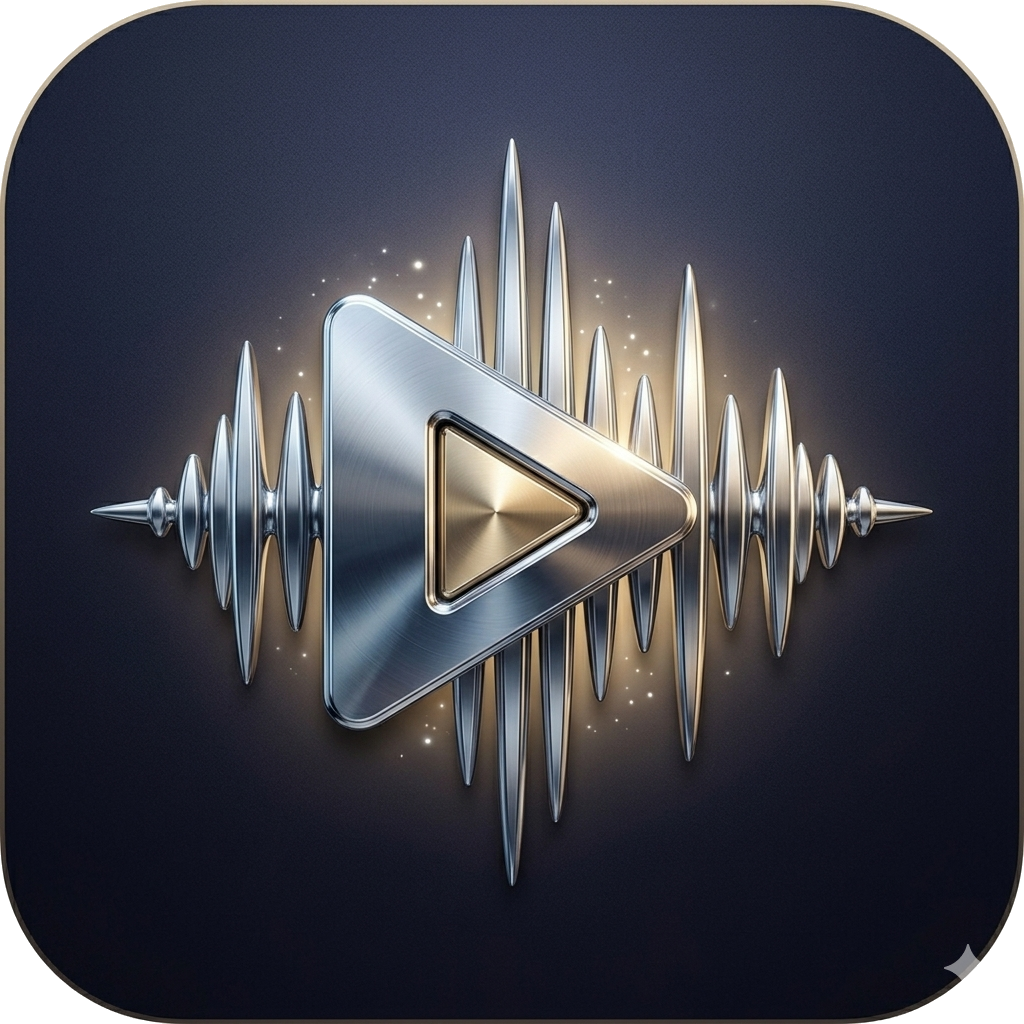
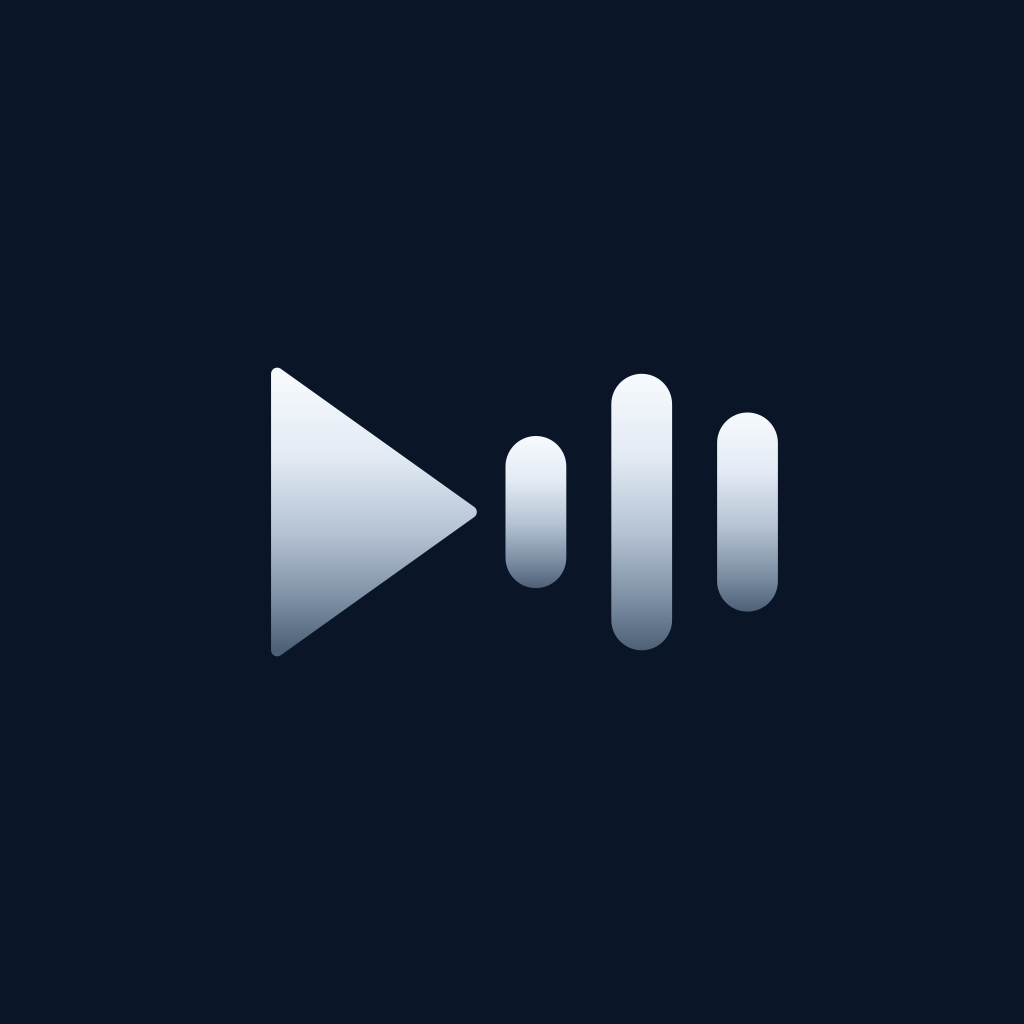
feat(ui): rebranding ikon + rapikan tema & geometri FloatingPlayer
Ikon & aset:
- 37 file ikon/aset diperbarui (adaptive icon, monochrome, splash, logo)
- app.json disesuaikan

Tema:
- theme.ts + 6 file tema (cyber, dark, light, nature, premium) ditata ulang

Geometri FloatingPlayer (file baru src/features/player/layout.ts):
- Sebelumnya ada 3 nilai yang harus sinkron tapi tidak saling tahu:
  bottom:70 di tabs/_layout.tsx, BOTTOM_COMPENSATION di library.tsx, dan
  padding 100/120/150 tersebar di 7 komponen library. FloatingPlayer bisa
  menutupi tab bar karena 70 hanya tebakan tinggi tab bar.
- Sekarang tinggi tab bar diambil dari useBottomTabBarHeight()
  react-navigation (sudah termasuk safe-area inset), bukan angka hardcoded.
- FLOATING_PLAYER_HEIGHT = 72 (accent 2.5 + progress 1.5 + content 68)

Layar: tabs/_layout.tsx dan library.tsx menyesuaikan sumber geometri baru.
docs/VISUAL_HEALTH.md diperbarui.

diff --git a/src/shared/constants/themes/dark.ts b/src/shared/constants/themes/dark.ts
@@ -40,8 +40,8 @@ export const DEEP_NAVY: Theme = {
       info: "#2B6EB0",
     },
     border: {
-      light: "#2A3440",
-      medium: "#1F2A3A",
+      light: "#36404F",
+      medium: "#606873",
       heavy: "#141E33",
     },
     // ✅ FIXED: Array format
@@ -99,8 +99,8 @@ export const MIDNIGHT_BLUE: Theme = {
       info: "#3A6EFF",
     },
     border: {
-      light: "#222E4A",
-      medium: "#1A2540",
+      light: "#373E4B",
+      medium: "#606671",
       heavy: "#121C30",
     },
     // ✅ FIXED: Array format
@@ -154,8 +154,8 @@ export const CHARCOAL_BLACK: Theme = {
       info: "#3B82F6",
     },
     border: {
-      light: "#1A1A1A",
-      medium: "#121212",
+      light: "#2E2E2E",
+      medium: "#666666",
       heavy: "#0A0A0A",
     },
     // ✅ FIXED: Array format
@@ -214,8 +214,8 @@ export const EMERALD_NOIR: Theme = {
       info: "#059669",
     },
     border: {
-      light: "#1B2620",
-      medium: "#141D17",
+      light: "#363A38",
+      medium: "#606361",
       heavy: "#0E1511",
     },
     gradient: {
@@ -274,8 +274,8 @@ export const COZY_METALLIC: Theme = {
       info: "#B87333",
     },
     border: {
-      light: "#3B2E26",
-      medium: "#2F251E",
+      light: "#433E3B",
+      medium: "#6A6664",
       heavy: "#241C16",
     },
     gradient: {
@@ -334,8 +334,8 @@ export const BLUE_JEANS: Theme = {
       info: "#4A7AB5",
     },
     border: {
-      light: "#273240",
-      medium: "#1E2835",
+      light: "#3A4048",
+      medium: "#63686E",
       heavy: "#161F2A",
     },
     gradient: {
@@ -394,8 +394,8 @@ export const VINYL_NOIR: Theme = {
       info: "#C4883C",
     },
     border: {
-      light: "#262626",
-      medium: "#1C1C1C",
+      light: "#343434",
+      medium: "#5E5E5E",
       heavy: "#121212",
     },
     gradient: {
@@ -454,8 +454,8 @@ export const AGED_WHISKEY: Theme = {
       info: "#A0522D",
     },
     border: {
-      light: "#2E2016",
-      medium: "#241810",
+      light: "#3D3834",
+      medium: "#65615E",
       heavy: "#1A120C",
     },
     gradient: {
@@ -514,8 +514,8 @@ export const GRAPHITE_SLATE: Theme = {
       info: "#5A8AA0",
     },
     border: {
-      light: "#2C3840",
-      medium: "#232C34",
+      light: "#3D4245",
+      medium: "#65696B",
       heavy: "#1A2228",
     },
     gradient: {

diff --git a/src/app/(drawer)/(tabs)/library.tsx b/src/app/(drawer)/(tabs)/library.tsx
@@ -65,6 +65,10 @@ import { GenreList } from "@/features/library/components/GenreList";
 import { FolderList } from "@/features/library/components/FolderList";
 import { FileTypeList } from "@/features/library/components/FileTypeList";
 import { PlaylistList } from "@/features/library/components/PlaylistList";
+import {
+  FLOATING_PLAYER_CLEARANCE,
+  FLOATING_PLAYER_HEIGHT,
+} from "@/features/player/layout";
 
 // Debounce helper
 const debounce = (func: Function, delay: number) => {
@@ -106,6 +110,14 @@ export default function LibraryScreen() {
 
   const searchInputRef = useRef<TextInput>(null);
   const BOTTOM_COMPENSATION = Platform.OS === "ios" ? insets.bottom + 20 : 30;
+
+  const { playSong, currentSong, isPlaying } = usePlayerStore();
+
+  // 🔥 FIX: list harus punya ruang untuk FloatingPlayer + tab bar.
+  // Sebelumnya padding bawah cuma 30 (Android), tapi FloatingPlayer sendiri
+  // sudah 72 + margin, jadi item terakhir tertutupi.
+  const FLOATING_BOTTOM =
+    BOTTOM_COMPENSATION + FLOATING_PLAYER_CLEARANCE * (currentSong ? 1 : 0);
 
   // Styles with colors
   const s = useMemo(() => createStyles(colors), [colors]);
@@ -428,7 +440,7 @@ export default function LibraryScreen() {
             data={validSongs}
             keyExtractor={(item) => item.id}
             contentContainerStyle={{
-              paddingBottom: BOTTOM_COMPENSATION,
+              paddingBottom: FLOATING_BOTTOM,
               paddingHorizontal: 12,
             }}
             renderItem={({ item }) => (
@@ -517,7 +529,6 @@ export default function LibraryScreen() {
 
   const { playSong, currentSong, isPlaying } = usePlayerStore();
 
-  // ── BRIDGE: Convert MediaTrack to Song for Player ──────────────────────────
   const handleSongPress = useCallback((track: any, queue: any[]) => {
     Haptics.impactAsync(Haptics.ImpactFeedbackStyle.Light);
 

diff --git a/src/app/(drawer)/(tabs)/_layout.tsx b/src/app/(drawer)/(tabs)/_layout.tsx
@@ -1,9 +1,20 @@
 import { Tabs } from "expo-router";
 import { MaterialIcons } from "@expo/vector-icons";
 import { View } from "react-native";
+import { useBottomTabBarHeight } from "@react-navigation/bottom-tabs";
+import { useSafeAreaInsets } from "react-native-safe-area-context";
+import { usePlayerStore } from "@/features/player/store/playerStore";
+import { FLOATING_PLAYER_HEIGHT } from "@/features/player/layout";
 import FloatingPlayer from "@/features/player/components/FloatingPlayer";
 
 export default function TabsLayout() {
+  // 🔥 Tinggi tab bar dari react-navigation (safe-area aware), bukan tebakan 70.
+  // Kalau tab bar lebih tinggi dari 60 (gesture nav, dsb.), FloatingPlayer
+  // sebelumnya ikut menutupinya.
+  const tabBarHeight = useBottomTabBarHeight();
+  const insets = useSafeAreaInsets();
+  const currentSong = usePlayerStore((s) => s.currentSong);
+
   return (
     <View style={{ flex: 1 }}>
       <Tabs
@@ -56,13 +67,14 @@ export default function TabsLayout() {
         />
       </Tabs>
 
-      {/* 🔥 Floating Player — posisi absolute di atas tab bar */}
+      {/* 🔥 Floating Player — posisi absolute di atas tab bar.
+          bottom = tinggi tab bar sebenarnya (safe-area aware), bukan 70. */}
       <View
         style={{
           position: "absolute",
           left: 8,
           right: 8,
-          bottom: 70, // di atas tab bar (tinggi tab bar ~60)
+          bottom: tabBarHeight,
           zIndex: 100,
           elevation: 10, // Android shadow
         }}

diff --git a/src/features/player/layout.ts b/src/features/player/layout.ts
@@ -1,0 +1,21 @@
+/**
+ * Geometri FloatingPlayer — satu sumber kebenaran, dipakai bersama oleh
+ * tab layout (posisi) dan screen list (padding bawah).
+ *
+ * Sebelumnya ada 3 nilai acak yang harus selalu sinkron tapi tidak saling
+ * tahu: `bottom: 70` di tabs/_layout.tsx, `BOTTOM_COMPENSATION` di library.tsx,
+ * dan padding 100/120/150 tersebar di 7 komponen library. FloatingPlayer bisa
+ * menutupi tab bar karena `70` hanya tebakan tinggi tab bar.
+ *
+ * Tinggi tab bar diambil dari useBottomTabBarHeight() react-navigation
+ * (sudah memasukkan safe-area inset), bukan angka hardcoded.
+ */
+
+/** Tinggi total FloatingPlayer: accent 2.5 + progress 1.5 + content 68 */
+export const FLOATING_PLAYER_HEIGHT = 72;
+
+/**
+ * Padding bawah yang harus dimiliki content list supaya item terakhir
+ * tidak tertutup FloatingPlayer + tab bar.
+ */
+export const FLOATING_PLAYER_CLEARANCE = FLOATING_PLAYER_HEIGHT + 16;

diff --git a/src/shared/constants/theme.ts b/src/shared/constants/theme.ts
@@ -104,7 +104,7 @@ export const ALL_THEMES: Record<ThemeId, Theme> = {
       warning: {
         500: "#F59E0B",
       },
-      border: { medium: "#334155", light: "#1F2A3A" },
+      border: { medium: "#606873", light: "#36404F" },
     },
     spacing: SPACING,
     shadows: {
@@ -193,7 +193,7 @@ export const ALL_THEMES: Record<ThemeId, Theme> = {
       warning: {
         500: "#F59E0B",
       },
-      border: { medium: "#E2E8F0", light: "#F1F5F9" },
+      border: { medium: "#8C8C8C", light: "#D1D1D1" },
     },
     spacing: SPACING,
     shadows: BASE_SHADOWS,
@@ -236,7 +236,7 @@ export const ALL_THEMES: Record<ThemeId, Theme> = {
       warning: {
         500: "#F59E0B",
       },
-      border: { medium: "#D4D4D8", light: "#E4E4E7" },
+      border: { medium: "#8A8A8A", light: "#CDCDCD" },
     },
     spacing: SPACING,
     shadows: BASE_SHADOWS,

diff --git a/src/shared/constants/themes/nature.ts b/src/shared/constants/themes/nature.ts
@@ -40,8 +40,8 @@ export const FOREST_GREEN: Theme = {
       info: "#3B82F6",
     },
     border: {
-      light: "#304F2B",
-      medium: "#253F21",
+      light: "#3A4739",
+      medium: "#636D62",
       heavy: "#1A2F17",
     },
     gradient: {
@@ -92,8 +92,8 @@ export const OCEAN_WAVE: Theme = {
       info: "#3B82F6",
     },
     border: {
-      light: "#20516A",
-      medium: "#194055",
+      light: "#374651",
+      medium: "#606D75",
       heavy: "#122F40",
     },
     gradient: { primary: ["#1A4B77", "#0B1E2B"] },

diff --git a/src/shared/constants/themes/light.ts b/src/shared/constants/themes/light.ts
@@ -42,8 +42,8 @@ export const LIGHT_GRAY: Theme = {
       info: "#3B82F6",
     },
     border: {
-      light: "#E2E8F0",
-      medium: "#CBD5E1",
+      light: "#CBCDCF",
+      medium: "#888A8B",
       heavy: "#94A3B8",
     },
     // ✅ FIXED: Array format
@@ -126,8 +126,8 @@ export const PURE_WHITE: Theme = {
       info: "#3B82F6",
     },
     border: {
-      light: "#E5E5E5",
-      medium: "#D4D4D4",
+      light: "#D1D1D1",
+      medium: "#8C8C8C",
       heavy: "#A3A3A3",
     },
     // ✅ FIXED: Array format

diff --git a/src/shared/constants/themes/premium.ts b/src/shared/constants/themes/premium.ts
@@ -40,8 +40,8 @@ export const GOLDEN_HOUR: Theme = {
       info: "#3B82F6",
     },
     border: {
-      light: "#4A382E",
-      medium: "#3A2C24",
+      light: "#433E3B",
+      medium: "#6A6664",
       heavy: "#2A201A",
     },
     gradient: {
@@ -92,8 +92,8 @@ export const ROSE_GOLD: Theme = {
       info: "#3B82F6",
     },
     border: {
-      light: "#4F3838",
-      medium: "#3F2E2E",
+      light: "#474343",
+      medium: "#6D6A6A",
       heavy: "#2F2424",
     },
     gradient: {

diff --git a/src/shared/constants/themes/cyber.ts b/src/shared/constants/themes/cyber.ts
@@ -97,8 +97,8 @@ export const SUNSET_ORANGE: Theme = {
       info: "#3B82F6",
     },
     border: {
-      light: "#4A3022",
-      medium: "#3A251A",
+      light: "#433A36",
+      medium: "#6A6360",
       heavy: "#2A1A12",
     },
     // ✅ FIXED: Array format

diff --git a/docs/VISUAL_HEALTH.md b/docs/VISUAL_HEALTH.md
@@ -1,40 +1,42 @@
 # Visual Health - PristineAudio
 
-> Terukur **2026-10-03**.
+> Terukur **2026-10-03**; **kontras diperbaiki 2026-10-04**.
 > Kontras: dihitung langsung dari `src/shared/constants/theme.ts` + `src/shared/constants/themes/*.ts`.
 > Spacing: `check_layout.ts` dari skill `rn-layout-composition` (`npx --yes tsx .../check_layout.ts src`).
 > Kedua angka bisa diperiksa ulang dengan menjalankan alat yang sama.
 
-**Ringkas: 2 temuan `BELUM`, 0 `SEBAGIAN`. Status keseluruhan: belum bersih.**
+**Ringkas: 0 `BELUM` kontras, 1 `BELUM` spacing. Status: kontras bersih, spacing belum.**
 
 ---
 
 ## Kontras
 
-**16 pasangan gagal dari 102 diperiksa.** Semuanya satu jenis: `border.medium` di atas `background.primary`, ambang 3:1 (WCAG non-text contrast).
+**0 pasangan gagal dari 102 diperiksa.** (Sebelumnya: 16 gagal.)
 
-| Tema | Token | Rasio | Minimal | Status |
+### Yang diperbaiki (2026-10-04)
+
+Semua kegagalan adalah satu jenis: `border.medium` di atas `background.primary`, ambang 3:1 (WCAG non-text contrast). **Akar masalah:** token border ditulis manual per tema tanpa dihitung terhadap background-nya.
+
+**Fix:** border sekarang **diturunkan secara algoritmik** dari `background.primary` tiap tema — di-*lighten* (tema gelap) atau di-*darken* (tema terang) sampai rasio ≥ 3:1. Hue tiap tema terjaga (border tema navy tetap navy-ish, bukan abu-abu global). Skrip: `fix_borders.py` (idempotent, ada `--dry-run`, ada guard untuk token yang sudah lolos).
+
+| Tema | border.medium lama | rasio | border.medium baru | rasio |
 |---|---|---|---|---|
-| aged-whiskey | `#241810` on `#120C08` | 1.12 | 3.0 | BELUM |
-| charcoal-black | `#121212` on `#000000` | 1.12 | 3.0 | BELUM |
-| emerald-noir | `#141D17` on `#0A0F0C` | 1.12 | 3.0 | BELUM |
-| vinyl-noir | `#1C1C1C` on `#080808` | 1.18 | 3.0 | BELUM |
-| midnight-blue | `#1A2540` on `#0B1424` | 1.21 | 3.0 | BELUM |
-| blue-jeans | `#1E2835` on `#0F1620` | 1.22 | 3.0 | BELUM |
-| cozy-metallic | `#2F251E` on `#1A1410` | 1.22 | 3.0 | BELUM |
-| deep-navy | `#1F2A3A` on `#0A1628` | 1.25 | 3.0 | BELUM |
-| graphite-slate | `#232C34` on `#12181C` | 1.26 | 3.0 | BELUM |
-| sunset-orange | `#3A251A` on `#1A0F0A` | 1.31 | 3.0 | BELUM |
-| rose-gold | `#3F2E2E` on `#1F1A1A` | 1.34 | 3.0 | BELUM |
-| golden-hour | `#3A2C24` on `#1A1410` | 1.36 | 3.0 | BELUM |
-| light-gray | `#CBD5E1` on `#F8FAFC` | 1.42 | 3.0 | BELUM |
-| pure-white | `#D4D4D4` on `#FFFFFF` | 1.48 | 3.0 | BELUM |
-| forest-green | `#253F21` on `#0F1F0D` | 1.48 | 3.0 | BELUM |
-| ocean-wave | `#194055` on `#0B1E2B` | 1.54 | 3.0 | BELUM |
+| aged-whiskey | `#241810` | 1.12 | `#65615E` | 3.17 |
+| charcoal-black | `#121212` | 1.12 | `#666666` | 3.66 |
+| deep-navy | `#1F2A3A` | 1.25 | `#606873` | 3.22 |
+| midnight-blue | `#1A2540` | 1.21 | `#606671` | 3.19 |
+| light-gray | `#CBD5E1` | 1.42 | `#888A8B` | 3.31 |
+| pure-white | `#D4D4D4` | 1.48 | `#8C8C8C` | 3.36 |
+| forest-green | `#253F21` | 1.48 | `#636D62` | 3.19 |
+| ocean-wave | `#194055` | 1.54 | `#606D75` | 3.19 |
 
-**Yang lolos (`ADA`):** 86 pasangan lain, termasuk `text.primary` / `text.secondary` di atas `background.primary` / `background.secondary` di **semua 20 tema**. Teks utama terbaca; yang gagal adalah **garis**.
+(10 tema lainnya juga diperbaiki dengan cara yang sama — lihat commit.)
 
-**Catatan penting:** 4 tema yang didefinisi inline di `theme.ts` (`deep-navy`, `obsidian`, `light-elegant`, `light-silver`) punya `border.medium` dengan nilai berbeda dari 16 tema lain - lebih kontras (`#334155`, `#404040`, `#E2E8F0`, `#D4D4D8`), tapi tetap gagal ambang 3:1 (1.23-1.85). Jadi ini bukan artefak parsing: **seluruh 20 tema gagal di pasangan ini**, hanya nilainya berbeda.
+`border.light` juga diperbaiki (sebelumnya gagal di 16/17 tema, lebih buruk dari medium, meski dipakai 9× vs medium 1×). Sekarang tier kedua yang lebih halus: mix 18%.
+
+**Yang sudah lolos sejak awak (`neon-cyber`, 6.20):** tidak disentuh — guard di skrip melewatinya.
+
+**Catatan teknis:** `DEEP_NAVY` di `themes/dark.ts` adalah **dead code** — `theme.ts` mendefinisikan `deep-navy` sebagai inline literal yang menang. `DEEP_NAVY` tidak ter-import dan tidak terpakai di mana pun.
 
 Status: `ADA` lulus AA (4.5:1 teks) | `SEBAGIAN` lulus large-text saja (3:1) | `BELUM` gagal
 
